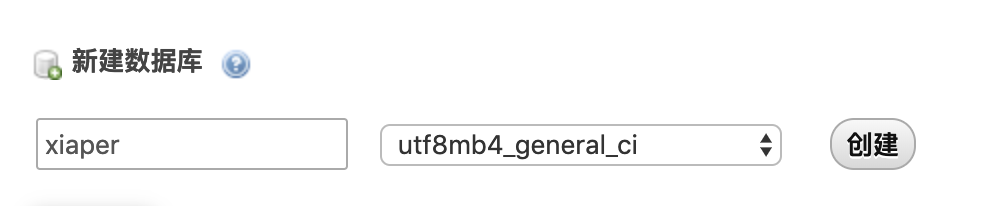
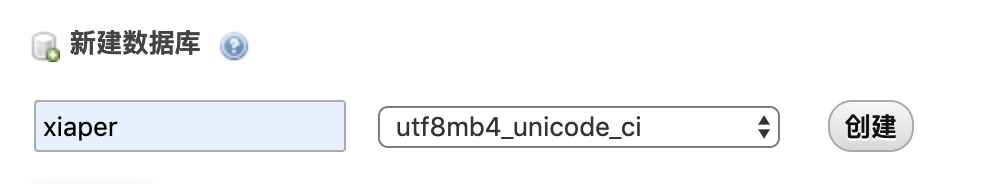
update

Changed region(s): [[0.0304, 0.5435, 0.7895, 0.8424], [0.0304, 0.163, 0.2733, 0.4076], [0.8198, 0.5435, 0.9413, 0.8424]]

diff --git a/vuepress/docs/.vuepress/config.js b/vuepress/docs/.vuepress/config.js
@@ -67,7 +67,6 @@ module.exports = {
             '/guide/mp',
             '/guide/mini',
             '/guide/webrtc',
-            '/guide/security',
             '/guide/jmeter'
           ]
         },{
@@ -93,9 +92,11 @@ module.exports = {
         },{
           title: '其他',
           children: [ 
+            '/other/microservice',
+            '/other/elk',
             '/other/protobuf',
             '/other/war',
-            '/other/elk',
+            '/other/security',
             '/other/about',
             '/faq/'
           ]

diff --git a/vuepress/docs/other/security.md b/vuepress/docs/other/security.md
@@ -50,13 +50,14 @@ core characteristic of good encryption: even the people who design and deploy it
 
 ## 原理
 
-
+TODO
 
 ## 参考
 
 - [Signal Protocol](https://signal.org/docs/)
 - [Signal Protocal Wiki](https://en.wikipedia.org/wiki/Signal_Protocol)
 - [Signal Github](https://github.com/signalapp)
+- [Signal Protocol library for Java/Android](https://github.com/signalapp/libsignal-protocol-java)
 - [移动端安全通信的利器——端到端加密（E2EE）技术详解](http://www.52im.net/thread-764-1-1.html)
 - [Facebook Messenger deploys Signal Protocol for end-to-end encryption](https://signal.org/blog/facebook-messenger/)
 - [WhatsApp's Signal Protocol integration is now complete](https://signal.org/blog/whatsapp-complete/)

diff --git a/vuepress/docs/guide/server.md b/vuepress/docs/guide/server.md
@@ -62,10 +62,10 @@
 ::: tip 提示
 支持多种部署方式，可任选其一
 
-* Jar
-* War
-* Maven
-* Docker
+* Jar：支持直接运行jar
+* War：支持war包放到Tomcat/WebLogic等容器中
+* Maven：支持将虾婆通过maven或gradle方式集成到现有项目中
+* Docker：支持docker部署
 :::
 
 <!-- TODO: ### 源码 -->
@@ -201,7 +201,7 @@ wechat.open.componentAesKey=
 
 ### 数据库
 
-* 创建数据库，编码选择：utf8mb4_general_cli
+* 创建数据库，编码选择：utf8mb4_unicode_cli
 ![create_database](/xiaper.io/create_database.png)
 * 初始化数据库, 导入sql文件：[xiaper_mysql.sql](https://github.com/xiaper/server/blob/master/sql/xiaper_mysql.sql)
 

diff --git a/vuepress/docs/guide/android.md b/vuepress/docs/guide/android.md
@@ -1,5 +1,9 @@
 # 安卓
 
+::: tip 提示
+示例基于两个用户 [Alice And Bob](https://en.wikipedia.org/wiki/Alice_and_Bob)
+:::
+
 ## 准备
 
 ## IM实战
@@ -21,3 +25,7 @@
 ### 客服
 
 ### 退出
+
+## 参考
+
+- [Alice & Bob](http://cryptocouple.com/)

diff --git a/vuepress/docs/guide/web.md b/vuepress/docs/guide/web.md
@@ -1,5 +1,9 @@
 # Web/H5
 
+::: tip 提示
+示例基于两个用户 [Alice And Bob](https://en.wikipedia.org/wiki/Alice_and_Bob)
+:::
+
 ## 准备
 
 ## IM实战

diff --git a/vuepress/docs/guide/ios.md b/vuepress/docs/guide/ios.md
@@ -1,5 +1,9 @@
 # iOS
 
+::: tip 提示
+示例基于两个用户 [Alice And Bob](https://en.wikipedia.org/wiki/Alice_and_Bob)
+:::
+
 ## 准备
 
 ## IM实战

diff --git a/vuepress/docs/guide/jmeter.md b/vuepress/docs/guide/jmeter.md
@@ -1,1 +1,7 @@
 # 压力测试
+
+TODO
+
+## 参考
+
+- [Apache JMeter](https://jmeter.apache.org/)

diff --git a/vuepress/docs/other/microservice.md b/vuepress/docs/other/microservice.md
@@ -1,0 +1,7 @@
+# 微服务
+
+TODO
+
+## Spring Cloud
+
+## 参考
